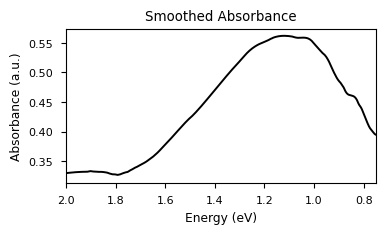
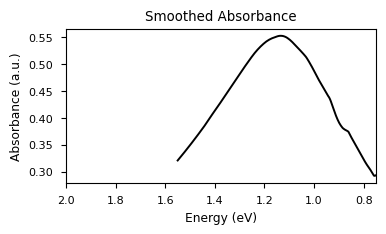
added difference code

diff --git a/mcd/fitting/mcd_full_fitting_routine_test.py b/mcd/fitting/mcd_full_fitting_routine_test.py
@@ -58,7 +58,7 @@ def parse_mcd_tests(path):
     #     ax.scatter(x,y,label=name,color=cmap(norm(c.values)))
     #     ax.legend(ncol=5)
 
-def plot_mcd(dic,op='avg',x_axis='Energy (eV)'):
+def plot_mcd(dic,op='avg',x_axis='Energy (eV)',title='[PH]',xdata='energy',ydata='mdeg'):
     fig,ax=plt.subplots(figsize=(4,2))
     # norm=plt.Normalize(-10,10) #optional to remove discrete H bar divisions
     norm=colors.BoundaryNorm(np.linspace(-10,10,11),ncolors=256)
@@ -66,7 +66,7 @@ def plot_mcd(dic,op='avg',x_axis='Energy (eV)'):
     fig.colorbar(sm,ticks=range(-10,11,2),label='H (T)') #make color bar based on H (T) for plot
     for df in dic.values():
         #Dr. Seaborn or: How I Learned to Stop Worrying and Love sns.lineplot. Such efficiency. Much wow.
-        sns.lineplot(data=df,x='energy',y='mdeg', linewidth=0.6,
+        sns.lineplot(data=df,x=xdata,y=ydata, linewidth=0.6,
                     hue='field',hue_norm=(-10,10),
                     palette=sns.color_palette('coolwarm_r',as_cmap=True),
                     legend=None)
@@ -79,7 +79,7 @@ def plot_mcd(dic,op='avg',x_axis='Energy (eV)'):
     plt.ylabel('MCD (mdeg)')
     plt.xlim(1.55,.75)
     plt.style.use('seaborn-paper')
-    plt.savefig(op + '_mcd',dpi=100,transparent=False,bbox_inches='tight')
+    plt.savefig(op + '_mcd_' + title,dpi=200,transparent=False,bbox_inches='tight')
     plt.show()
 
 def calc_raw_avg_mcd(dic): #need to define this before finding the mcd difference
@@ -156,12 +156,18 @@ def parse_abs(path):
     d_abs = {}
     for root, dirs, files in os.walk(path): #walk along all files in directory given a path
         for num, name in enumerate(files): #for each file in list of files...
-            if "blank" or "ems" in str.lower(name): #remove any test files performed during data acqusition
-                f = re.search('.*(?=_A)',name).group(0) #search for beginning of file name "#T_" and set as name for df. Man this was difficult to figure out syntactically. 
-                # print("Adding", f + "...") #uncomment to check files are being added/named correctly
+            if "blank" in str.lower(name): #select for blank and ems file
+                dic_name="Blank"
+                # print("Adding", dic_name + "...") #uncomment to check files are being added/named correctly
                 df=pd.read_table(path+name, sep='\t',names=['wavelength','pemx','pemy','chpx','chpy','deltaA']) #create dataframe for each file
                 df['energy']=1240/df['wavelength'] #calculate energy from wavelength
-                d_abs[f] = df #send dataframe to dictionary
+                d_abs[dic_name] = df #send dataframe to dictionary
+            if "ems" or "sample" in str.lower(name):
+                dic_name="Ems"
+                # print("Adding", dic_name + "...") #uncomment to check files are being added/named correctly
+                df=pd.read_table(path+name, sep='\t',names=['wavelength','pemx','pemy','chpx','chpy','deltaA']) #create dataframe for each file
+                df['energy']=1240/df['wavelength'] #calculate energy from wavelength
+                d_abs[dic_name] = df #send dataframe to dictionary
     df_abs=pd.DataFrame(data=(d_abs['Ems']['wavelength'], d_abs['Ems']['energy'], d_abs['Ems']['chpx'], d_abs['Blank']['chpx'])).transpose() #make dataframe from ems/blank dictionary
     df_abs.columns=['wavelength','energy','ems','blank'] #setup columns
     df_abs['absorbance']=(2-np.log10(100 * df_abs['ems'] / df_abs['blank'])) #calculate absorbance from emission and blank data
@@ -300,22 +306,56 @@ def writeHTMLfile(file_name):
 
 '''parse all data files'''
 #Change these pathways if using from GitHub.
-raw_mcd_dic = parse_mcd("/mnt/c/users/roflc/Desktop/MCD 11-11-20/") #raw mcd data in dictionary
-df_abs = parse_abs("/mnt/c/users/roflc/Desktop/Abs 11-11-20/") #calculated abs data in dataframe
+raw_mcd_dic = parse_mcd("/mnt/c/users/roflc/Desktop/MCD 03-15-21 v2/") #raw mcd data in dictionary
+df_abs = parse_abs("/mnt/c/users/roflc/Desktop/ABS 03-15-21/") #calculated abs data in dataframe
 
 '''perform mcd experimental data operations'''
-plot_mcd(raw_mcd_dic,'raw') #plot raw experimental mcd data
+plot_mcd(raw_mcd_dic,'raw',title='sample') #plot raw experimental mcd data
 df_avgs = calc_raw_avg_mcd(raw_mcd_dic) #
-plot_mcd(df_avgs,'avg')
-df_diff = calc_diff_mcd(df_avgs)
-plot_diff_mcd(df_diff)
+plot_mcd(df_avgs,'avg',title='sample')
+# df_diff = calc_diff_mcd(df_avgs)
+# plot_diff_mcd(df_diff)
 
 '''perform mcd difference calculation'''
-raw_mcd_dic_blank = parse_mcd("") 
-for field, df in raw_mcd_dic.items():
-    diff_df = DataFrame()
-    diff_df[field] = raw_mcd_dic[field][df]['deltaA'] - raw_mcd_dic_blank[field][df]['deltaA']
-    print (diff_df)
+raw_mcd_dic_blank = parse_mcd("/mnt/c/users/roflc/Desktop/MCD 03-15-21 Blank/")
+plot_mcd(raw_mcd_dic_blank,'raw',title='blank')
+df_blank_avgs = calc_raw_avg_mcd(raw_mcd_dic_blank)
+plot_mcd(df_blank_avgs,'avg',title='blank')
+
+# make this a function, finds diff between sample and blank.
+diff_df={}
+for name, df in df_avgs.items():
+    for df_blank in df_blank_avgs.values():
+        diff_df[name] = pd.DataFrame()
+        diff_df[name] = df - df_blank #take difference of all values
+        diff_df[name]['energy'] = df['energy'] #fix energy
+        diff_df[name]['field'] = df['field'] #fix field
+        diff_df[name]['wavelength'] = df['wavelength'] #fix wavelength
+plot_mcd(diff_df,'avg',title='diff')
+
+# make this a function, finds diff between sample and blank using total PEM signal.
+all_pem_channels_added_diff_df={}
+for name, df in df_avgs.items():
+    for df_blank in df_blank_avgs.values():
+        all_pem_channels_added_diff_df[name] = pd.DataFrame()
+        all_pem_channels_added_diff_df[name] = df - df_blank #take difference of all values
+        all_pem_channels_added_diff_df[name]['energy'] = df['energy'] #fix energy
+        all_pem_channels_added_diff_df[name]['field'] = df['field'] #fix field
+        all_pem_channels_added_diff_df[name]['wavelength'] = df['wavelength'] #fix wavelength
+        all_pem_channels_added_diff_df[name]['samp_test'] = (df['pemx'] + df['pemy']) / (df['chpx']+df['chpy'])
+        all_pem_channels_added_diff_df[name]['blank_test'] = (df_blank['pemx'] + df_blank['pemy']) / (df_blank['chpx']+df_blank['chpy'])
+        all_pem_channels_added_diff_df[name]['sub_test'] = all_pem_channels_added_diff_df[name]['samp_test'] - all_pem_channels_added_diff_df[name]['blank_test']
+        all_pem_channels_added_diff_df[name]['sub_test_zero_subtracted'] = (all_pem_channels_added_diff_df[name]['sub_test'] - all_pem_channels_added_diff_df['0']['sub_test']) * 32982
+plot_mcd(all_pem_channels_added_diff_df,'avg',title='sub_test3',ydata='sub_test_zero_subtracted')
+
+sys.exit()
+
+# for name, df in dic.items():
+#         df_diff[name] = pd.DataFrame()
+#             if op=='add':
+#                 df_diff[name] = df + dic['-' + name] #add positive and negative dictionary entries
+#                 df_diff[name]['energy'] = df['energy'] #fix energy back to original values
+#                 df_diff[name]['field'] = df['field'] #fix field back to original values
 
 '''perform absorbance simulation data fitting operations'''
 plot_abs(df_abs)
@@ -324,3 +364,4 @@ average_ev, std_dev_ev, average_m, std_dev_m = calc_effective_mass_and_plot(fit_
 
 '''write HTML file report'''
 writeHTMLfile('mcd.html')
+ 
